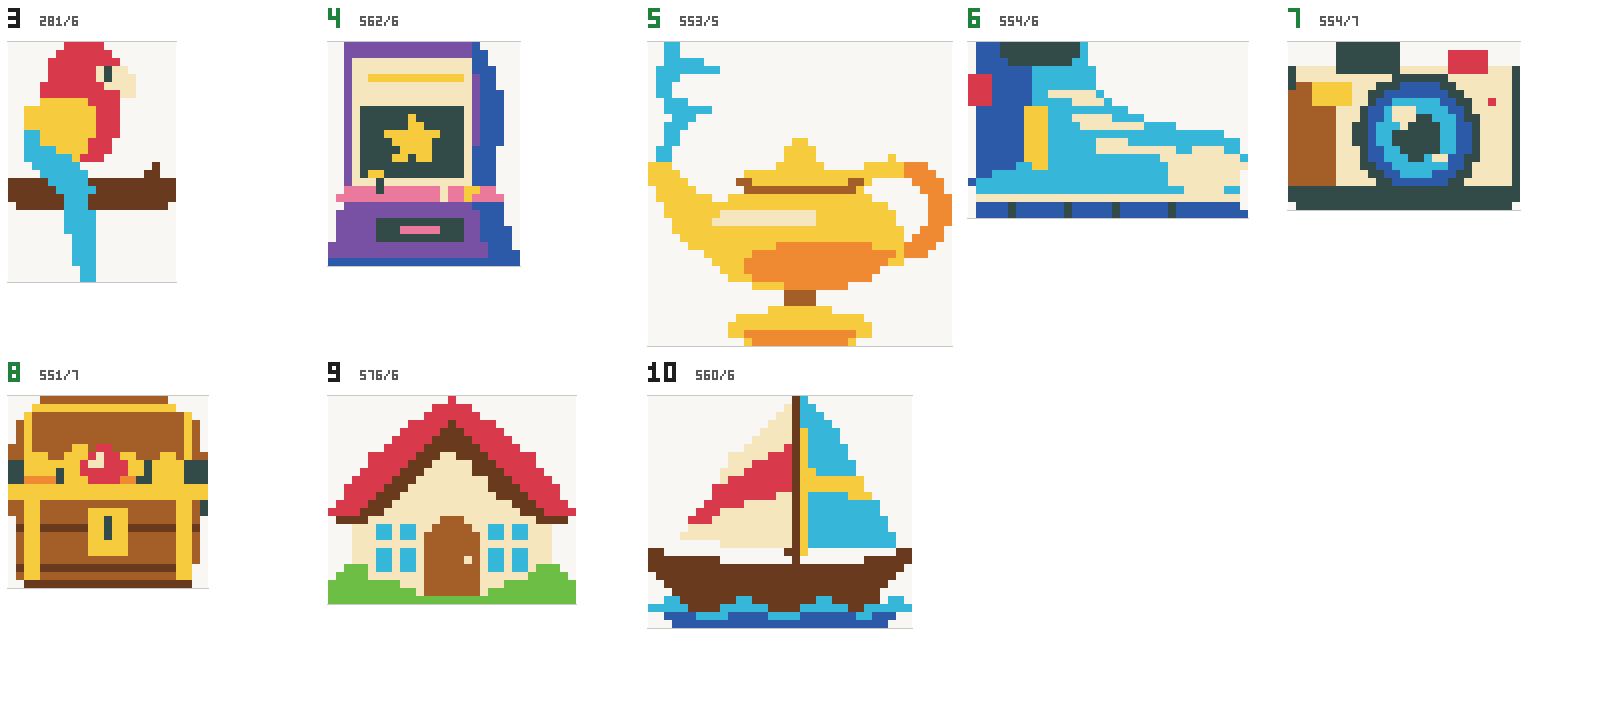
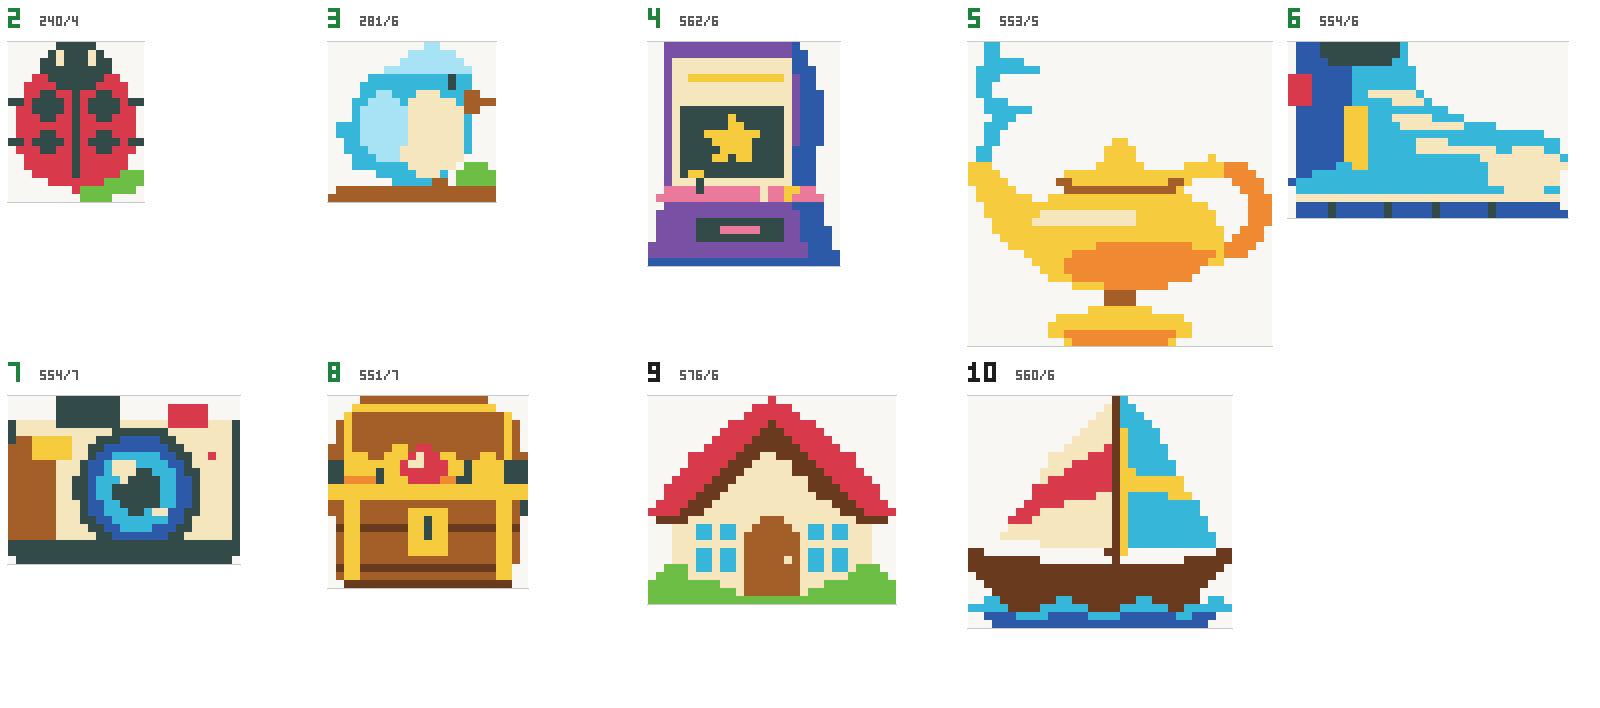
Pictures 2 and 3 from the owner's first-levels sheet (2C ladybug, 3B bird), approved
Read back cell by cell and mapped to the nearest palette material. Their
volumes are exactly rule 17 §4's (120/97/19/4 and 76/70/69/51/13/2). They
are recorded as the newest versions of P0002 and P0003 and approved by the
owner's choice ("2C 3B").

Claude-Session: https://claude.ai/code/session_015MFFqpKVAaPopMAf2NPWry

diff --git a/content/rounds/pictures/sheets/batch-0001.md b/content/rounds/pictures/sheets/batch-0001.md
@@ -4,7 +4,8 @@
 
 | № | Название | Тема | Размер | Клеток | Цветов | Объёмы | Для уровня | Статус |
 |---:|---|---|---|---:|---:|---|---:|---|
-| 3 | Попугай ара | animals | 21×30 | 281 | 6 | R 76 · B 70 · E 69 · Y 51 · C 13 · D 2 | 3 | draft |
+| 2 | Божья коровка 2C | animals | 17×20 | 240 | 4 | R 120 · D 97 · G 19 · C 4 | 2 | approved |
+| 3 | Птичка 3B | animals | 21×20 | 281 | 6 | B 76 · S 70 · C 69 · A 51 · G 13 · D 2 | 3 | approved |
 | 4 | Игровой автомат | objects | 24×28 | 562 | 6 | V 152 · D 122 · C 112 · N 97 · Y 40 · P 39 | 4 | approved |
 | 5 | Волшебная лампа | objects | 38×38 | 553 | 5 | Y 301 · O 154 · B 47 · A 26 · C 25 | 5 | approved |
 | 6 | Кроссовок | objects | 35×22 | 554 | 6 | B 220 · N 146 · C 117 · D 36 · Y 23 · R 12 | 6 | approved |
